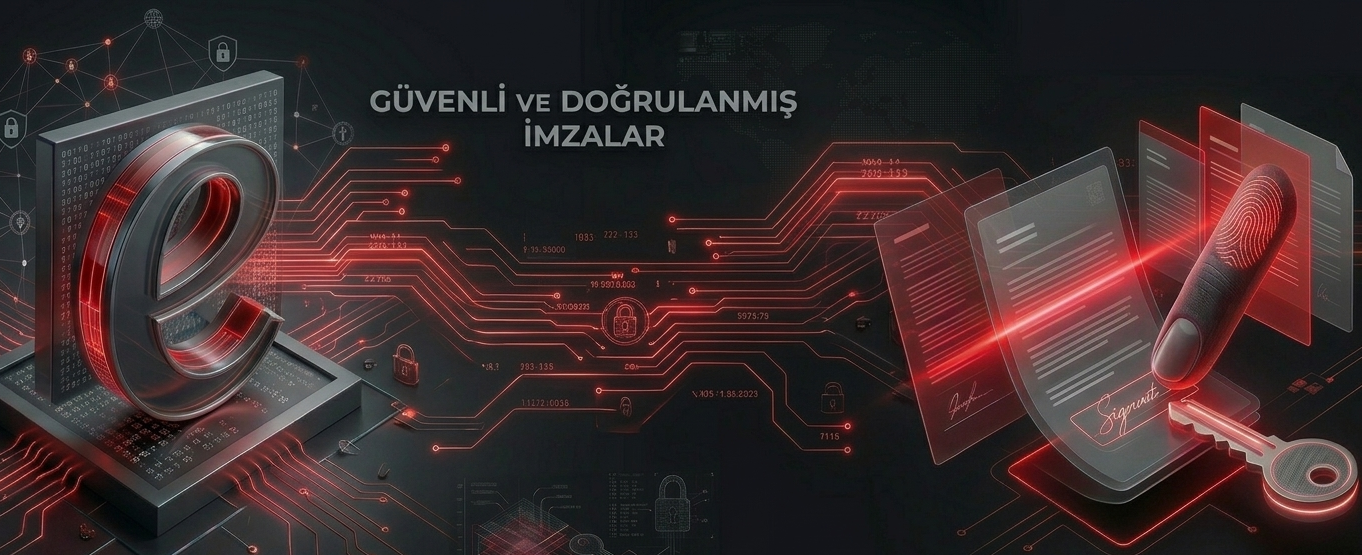
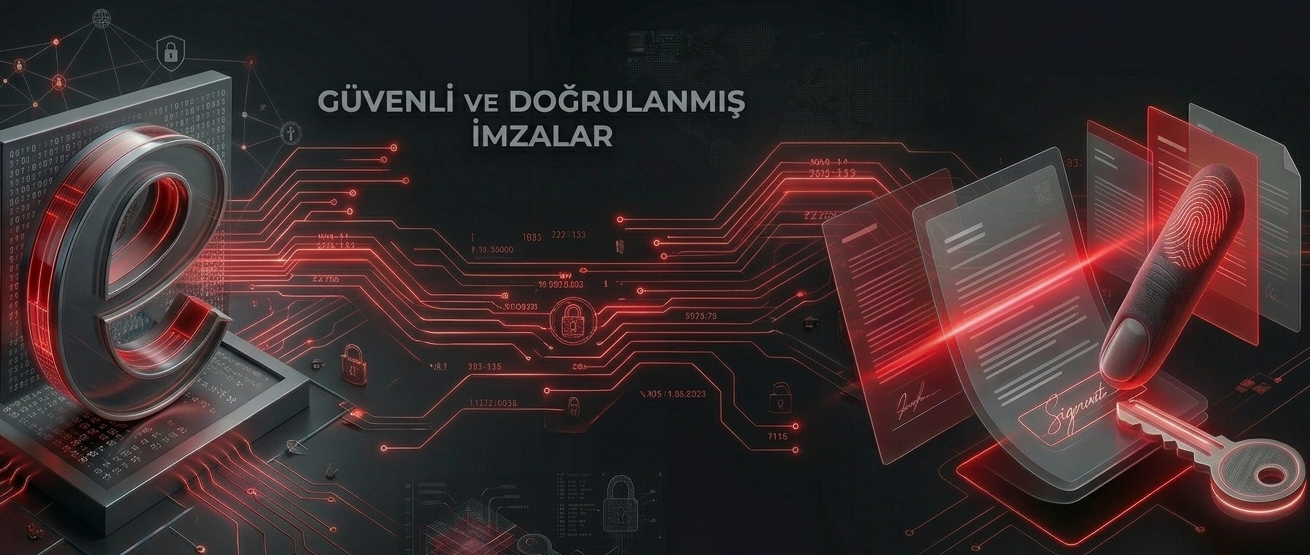
the responsiveness problem solved

Changed region(s): [[0.0, 0.0, 1.0, 1.0], [0.458, 0.8577, 0.5191, 0.9189], [0.9466, 0.6739, 0.9771, 0.7045]]

diff --git a/support/verify.html b/support/verify.html
@@ -245,13 +245,18 @@
     }
 
     @media (max-width: 900px) {
+      .page-hero {
+        overflow-x: hidden;
+      }
+
       .verify-hero-box {
         min-height: 220px;
         background: #2c2c2c;
+        max-width: 100vw;
       }
 
       .verify-hero-box--full {
-        width: 100%;
+        width: calc(100vw - 32px);
         min-height: clamp(220px, 34vh, 320px);
         aspect-ratio: 16 / 9;
         border-radius: 22px;
@@ -259,12 +264,18 @@
     }
 
     @media (max-width: 640px) {
+      .page-hero {
+        overflow-x: hidden;
+      }
+
       .verify-hero-box {
         min-height: 180px;
         background: #262626;
+        max-width: 100vw;
       }
 
       .verify-hero-box--full {
+        width: calc(100vw - 24px);
         min-height: 180px;
         aspect-ratio: 4 / 3;
         border-radius: 16px;
@@ -433,7 +444,8 @@
       <div class="container" data-animate="fade-up">
         <div class="verify-hero-box verify-hero-box--full">
           <picture>
-            <source media="(max-width: 900px)" srcset="../assets/img/resverify.png" />
+            <source media="(max-width: 900px) and (min-width: 641px)" srcset="../assets/img/tabletverify.png" />
+            <source media="(max-width: 640px)" srcset="../assets/img/resverify.png" />
             <img src="../assets/img/verify.png" alt="İmza doğrulama görseli" class="verify-hero-box__image" />
           </picture>
         </div>